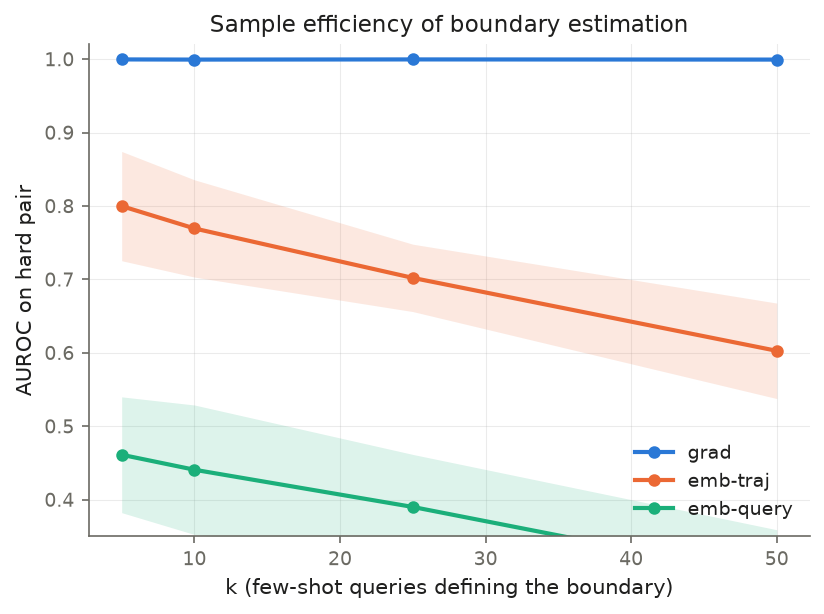
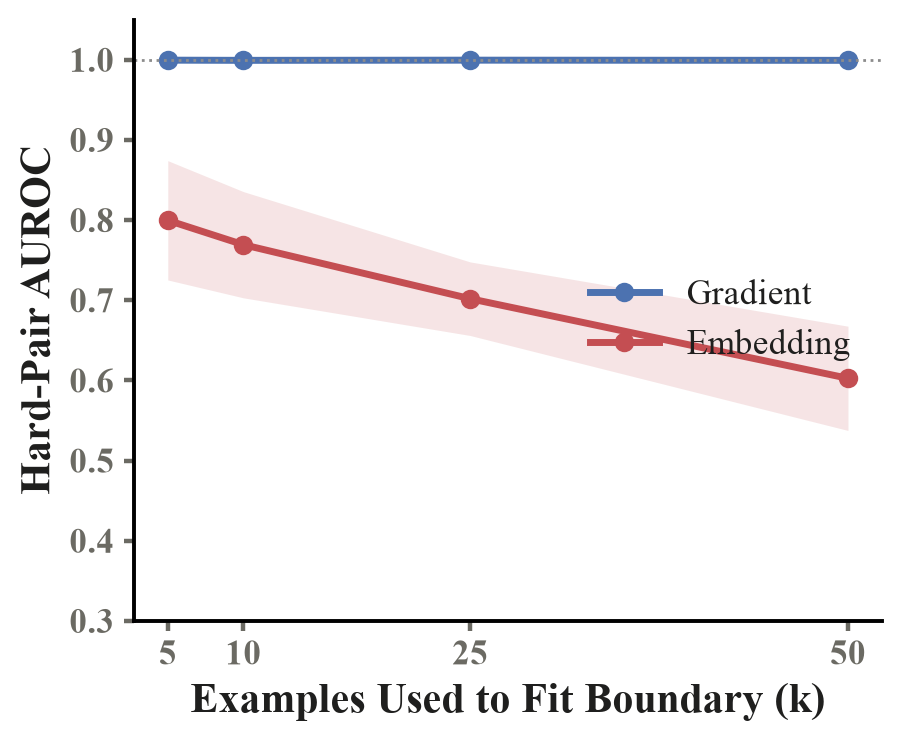
figures: fig1c from common origin with larger bold text, result figures re-polished to house style via tools/repolish_figs.py, sharper subcaptions

Changed region(s): [[0.0, 0.0309, 0.9709, 0.9902], [0.7585, 0.7117, 0.8192, 0.7427], [0.8495, 0.7117, 0.8799, 0.7427]]

diff --git a/tools/repolish_figs.py b/tools/repolish_figs.py
@@ -1,0 +1,204 @@
+"""Regenerate all result figures in the normative house style.
+
+Times New Roman, no in-figure titles, muted palette, bold Title-Case axis
+labels (14-15pt), bold ticks 12-13pt, legends never over data. Every number
+comes from logged runs under results/.
+"""
+
+import json
+
+import numpy as np
+import matplotlib
+
+matplotlib.use("Agg")
+import matplotlib.pyplot as plt
+from sklearn.decomposition import PCA
+from sklearn.metrics import roc_auc_score, roc_curve
+
+plt.rcParams.update(
+    {
+        "font.family": "serif",
+        "font.serif": ["Times New Roman"],
+        "mathtext.fontset": "stix",
+        "axes.labelsize": 15,
+        "axes.labelweight": "bold",
+        "xtick.labelsize": 12.5,
+        "ytick.labelsize": 12.5,
+        "legend.fontsize": 12.5,
+    }
+)
+
+BLUE, ORANGE, GREEN, RED, PURPLE = "#4C72B0", "#DD8452", "#55A868", "#C44E52", "#8172B3"
+GRAY, TEXT, MUTED = "#8C8C8C", "#1f1f1e", "#6b6a63"
+DOMC = {"gsm8k-code": BLUE, "gsm8k-cot": RED, "sql": GREEN,
+        "pandas": PURPLE, "alpaca": GRAY}
+RNG = np.random.default_rng(0)
+
+
+def style(ax, ylab=None, xlab=None):
+    for sp in ["top", "right"]:
+        ax.spines[sp].set_visible(False)
+    for sp in ["left", "bottom"]:
+        ax.spines[sp].set_linewidth(1.4)
+    ax.tick_params(colors=MUTED, width=1.6)
+    for lab in ax.get_xticklabels() + ax.get_yticklabels():
+        lab.set_fontweight("bold")
+    if ylab:
+        ax.set_ylabel(ylab, color=TEXT)
+    if xlab:
+        ax.set_xlabel(xlab, color=TEXT)
+
+
+d = np.load("results/pilot/features_grad.npz", allow_pickle=True)
+Xg, dom = d["X"], d["domain"]
+de = np.load("results/pilot/features_emb.npz", allow_pickle=True)
+Xe = de["Et"]  # trajectory embeddings (prompt+response)
+dome = de["domain"] if "domain" in de.files else dom
+
+
+# official pilot protocol: unit rows, uncentered SVD subspace, norm-ratio score
+import sys
+
+sys.path.insert(0, "src")
+from boundary import unit, fit_subspace, score, evaluate, k_curve  # noqa: E402
+
+
+# ---------------------------------------------------------------- pilot_pca
+fig, axes = plt.subplots(1, 2, figsize=(9.2, 3.9), facecolor="white")
+for ax, X, name in [(axes[0], Xe, "Trajectory Embeddings"),
+                    (axes[1], Xg, "Gradient Fingerprints")]:
+    Z = PCA(2, random_state=0).fit_transform(X)
+    for dm in ["gsm8k-code", "gsm8k-cot", "sql", "pandas", "alpaca"]:
+        m = dom == dm
+        ax.scatter(Z[m, 0], Z[m, 1], s=13, alpha=0.7, color=DOMC[dm],
+                   label=dm, lw=0)
+    style(ax, xlab=f"PC 1 ({name})")
+    ax.set_xticks([]); ax.set_yticks([])
+axes[0].set_ylabel("PC 2", color=TEXT)
+h, l = axes[1].get_legend_handles_labels()
+fig.legend(h, l, frameon=False, ncol=5, loc="upper center",
+           bbox_to_anchor=(0.5, 1.04), labelcolor=TEXT, markerscale=2.2,
+           handletextpad=0.1, columnspacing=0.9)
+fig.tight_layout(rect=(0, 0, 1, 0.94))
+fig.savefig("paper/figs/pilot_pca.png", dpi=200, bbox_inches="tight")
+plt.close(fig)
+
+# ------------------------------------------------------------ pilot_roc_hard
+spaces = {"grad": (Xg, dom), "emb-traj": (Xe, dome)}
+res = evaluate(spaces, seed=0)
+fig, ax = plt.subplots(figsize=(4.6, 3.8), facecolor="white")
+for sp, name, col in [("grad", "Gradient", BLUE),
+                      ("emb-traj", "Embedding", RED)]:
+    fpr, tpr, _ = res[sp]["gsm8k-code"]["_roc_hard"]
+    au = res[sp]["gsm8k-code"]["hard_auroc"]
+    ax.plot(fpr, tpr, color=col, lw=2.5, label=f"{name} (AUROC {au:.3f})")
+ax.plot([0, 1], [0, 1], color=GRAY, lw=1.2, ls=":")
+style(ax, ylab="True Positive Rate", xlab="False Positive Rate")
+ax.legend(frameon=False, loc="lower right", labelcolor=TEXT)
+fig.tight_layout()
+fig.savefig("paper/figs/pilot_roc_hard.png", dpi=200, bbox_inches="tight")
+plt.close(fig)
+
+# ------------------------------------------------------------ pilot_k_curve
+ks = (5, 10, 25, 50)
+kres = k_curve(spaces, ks=ks, seeds=range(5))
+fig, ax = plt.subplots(figsize=(4.6, 3.8), facecolor="white")
+for sp, name, col in [("grad", "Gradient", BLUE),
+                      ("emb-traj", "Embedding", RED)]:
+    mean = np.array([np.mean(kres[sp][k]) for k in ks])
+    sd = np.array([np.std(kres[sp][k]) for k in ks])
+    ax.plot(ks, mean, color=col, lw=2.5, marker="o", ms=6, label=name)
+    ax.fill_between(ks, mean - sd, mean + sd, color=col, alpha=0.15, lw=0)
+ax.set_xticks(ks, [str(k) for k in ks])
+ax.axhline(1.0, color=GRAY, lw=1.0, ls=":")
+ax.set_ylim(0.3, 1.05)
+style(ax, ylab="Hard-Pair AUROC", xlab="Examples Used to Fit Boundary (k)")
+ax.legend(frameon=False, loc="center right", labelcolor=TEXT)
+fig.tight_layout()
+fig.savefig("paper/figs/pilot_k_curve.png", dpi=200, bbox_inches="tight")
+plt.close(fig)
+
+# ------------------------------------------------------------ pilot_distill
+pm = json.load(open("results/pilot_distill/metrics.json"))
+doms = ["gsm8k-code", "gsm8k-cot", "sql", "pandas", "alpaca"]
+before = [np.mean(pm["before"]["loss"][dm]) for dm in doms]
+after = [np.mean(pm["after"]["loss"][dm]) for dm in doms]
+x = np.arange(len(doms))
+fig, ax = plt.subplots(figsize=(5.6, 3.6), facecolor="white")
+ax.bar(x - 0.19, before, width=0.36, color="#c9c7c0", label="Before")
+ax.bar(x + 0.19, after, width=0.36,
+       color=[BLUE if dm == "gsm8k-code" else ORANGE for dm in doms])
+from matplotlib.patches import Patch
+ax.legend(handles=[Patch(fc="#c9c7c0", label="Before"),
+                   Patch(fc=BLUE, label="After, In-Task"),
+                   Patch(fc=ORANGE, label="After, Off-Task")],
+          frameon=False, loc="upper left", labelcolor=TEXT, fontsize=11)
+ax.set_xticks(x, ["Code", "CoT", "SQL", "Pandas", "Alpaca"])
+style(ax, ylab="Held-Out Loss")
+fig.tight_layout()
+fig.savefig("paper/figs/pilot_distill.png", dpi=200, bbox_inches="tight")
+plt.close(fig)
+
+# ---------------------------------------------------------------- e1_intra
+rep = json.load(open("results/atoms_pilot/report.json"))
+pairs = ["sql-yes vs sql-no", "sql-no vs sql-yes",
+         "pandas-yes vs pandas-no", "pandas-no vs pandas-yes"]
+atom_m = [rep["aurocs"][p][0] for p in pairs]
+atom_s = [rep["aurocs"][p][1] for p in pairs]
+dense_m = [0.615, 0.754, 0.675, 0.616]
+dense_s = [0.094, 0.080, 0.090, 0.117]
+x = np.arange(len(pairs))
+fig, ax = plt.subplots(figsize=(5.8, 3.6), facecolor="white")
+ax.bar(x - 0.19, atom_m, yerr=atom_s, width=0.36, color=BLUE, capsize=3,
+       label="Atom Support")
+ax.bar(x + 0.19, dense_m, yerr=dense_s, width=0.36, color="#c9c7c0",
+       capsize=3, label="Dense Subspace")
+ax.axhline(0.5, color=GRAY, lw=1.0, ls=":")
+ax.set_xticks(x, ["SQL Join\nvs Plain", "SQL Plain\nvs Join",
+                  "Pandas Loc\nvs Plain", "Pandas Plain\nvs Loc"], fontsize=11)
+ax.set_ylim(0.35, 1.0)
+style(ax, ylab="Directed AUROC")
+ax.legend(frameon=False, loc="upper right", labelcolor=TEXT)
+fig.tight_layout()
+fig.savefig("paper/figs/e1_intra.png", dpi=200, bbox_inches="tight")
+plt.close(fig)
+
+# ---------------------------------------------------------------- e2_gate
+e2 = json.load(open("results/e2_gate/records.json"))
+recs = [r for r in e2["records"] if r["domain"] == "gsm8k-code"]
+steps = sorted({r["step"] for r in recs})
+fig, ax = plt.subplots(figsize=(5.6, 3.6), facecolor="white")
+for ok, col, lab in [(True, BLUE, "Executes Correctly"),
+                     (False, ORANGE, "Fails")]:
+    xs = [r["step"] + RNG.normal(0, 0.6) for r in recs if r["success"] == ok]
+    ys = [r["gradnorm"] for r in recs if r["success"] == ok]
+    ax.scatter(xs, ys, s=14, alpha=0.55, color=col, lw=0, label=lab)
+ax.set_yscale("log")
+rho = e2["analysis"]["pooled"]["rho"]
+ax.text(0.98, 0.96, f"Pooled Spearman $\\rho$ = {rho:.2f}",
+        fontsize=12.5, weight="bold", color=TEXT, ha="right", va="top",
+        transform=ax.transAxes)
+style(ax, ylab="Residual Gradient Norm", xlab="Training Step")
+ax.legend(frameon=False, loc="lower left", labelcolor=TEXT, markerscale=1.8)
+fig.tight_layout()
+fig.savefig("paper/figs/e2_gate.png", dpi=200, bbox_inches="tight")
+plt.close(fig)
+
+# ---------------------------------------------------------------- e3_tier1
+e3 = json.load(open("results/e3_tier1/metrics.json"))
+conds = ["base", "A_all", "B_random", "C_emb", "D_grad", "F_refusal"]
+names = ["Base", "Full Pool", "Random", "Embedding", "Ours", "Ours+Refusal"]
+intask = [e3["conditions"][c]["eval"]["gsm8k_code"]["exec_acc"] for c in conds]
+off = [e3["conditions"][c]["eval"]["gsm8k_cot"]["any_acc"] for c in conds]
+x = np.arange(len(conds))
+fig, ax = plt.subplots(figsize=(6.2, 3.6), facecolor="white")
+ax.bar(x - 0.19, intask, width=0.36, color=BLUE, label="In-Task Execution")
+ax.bar(x + 0.19, off, width=0.36, color=ORANGE, label="Off-Task Retention")
+ax.set_xticks(x, names, fontsize=11)
+style(ax, ylab="Accuracy")
+ax.legend(frameon=False, loc="upper left", labelcolor=TEXT)
+fig.tight_layout()
+fig.savefig("paper/figs/e3_tier1.png", dpi=200, bbox_inches="tight")
+plt.close(fig)
+
+print("regenerated 7 figures")

diff --git a/paper/sections/introduction.tex b/paper/sections/introduction.tex
@@ -40,17 +40,17 @@ out-of-scope capability through the training diet itself.
 \centering
 \begin{subfigure}[b]{0.29\linewidth}
 \includegraphics[width=\linewidth]{figs/fig1a_text_space.png}
-\caption{Text-embedding space.}
+\caption{Identical query text, inseparable tasks.}
 \label{fig:motivation-a}
 \end{subfigure}\hfill
 \begin{subfigure}[b]{0.29\linewidth}
 \includegraphics[width=\linewidth]{figs/fig1b_gradient_space.png}
-\caption{Gradient space.}
+\caption{Gradient space separates them exactly.}
 \label{fig:motivation-b}
 \end{subfigure}\hfill
 \begin{subfigure}[b]{0.36\linewidth}
 \includegraphics[width=\linewidth]{figs/fig1c_budget.png}
-\caption{Iso-performance budget cost.}
+\caption{Same in-task level, a fraction of the budget.}
 \label{fig:motivation-c}
 \end{subfigure}
 \caption{Why both questions defeat current practice (all panels from
@@ -58,7 +58,7 @@ logged runs). (a)~240 GSM8K questions solved as code (blue) or prose (red)
 share their query text, so any boundary drawn on the request text cannot
 separate the two tasks. (b)~The same examples separate perfectly in
 gradient space: task identity lives in what a student would have to learn.
-(c)~In-task success versus token budget (0.8B student, 3 seeds): the level
+(c)~In-task success versus token budget (0.8B student, 3 seeds; all selectors start from the same untrained student): the level
 our selection reaches with 10k tokens is still unmet by random selection at
 40k, a ${>}4\times$ budget gap; the budget others spend off-specification
 resurfaces as leaked out-of-task capability (Table~\ref{tab:twosided}).}
